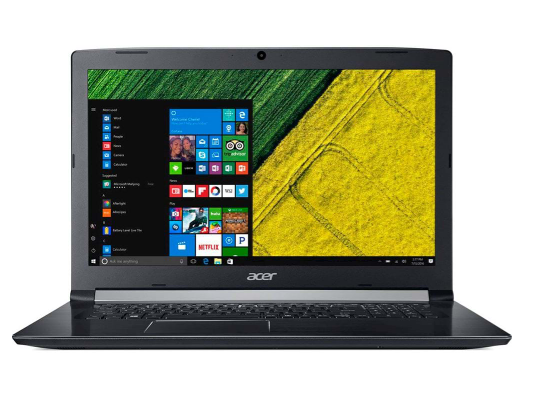
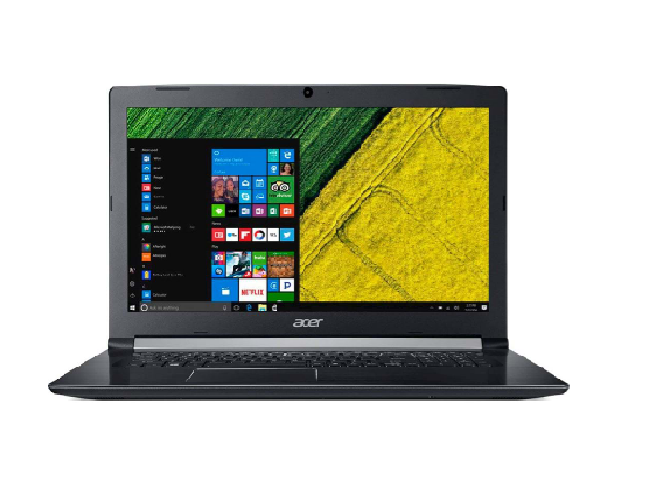
laptop 2

diff --git a/Laptop2.html b/Laptop2.html
@@ -35,14 +35,17 @@
 		<div>
 			<div class="laptopflex">
 				<div>
-					<a class="LaptopimgHP" href="Laptop.html"><img src="img/laptops.jpg" alt="laptop"></a>
-				</div>
-				<div class="hplaptop">
-					<h2>HP laptop 15-DA0636ND</h2>
-					<input onclick="alert('Succesfull added to cart')" class="hpbutton" type="button" value="Add to cart">
+					<a class="LaptopimgHP" href="Laptop2.html"><img src="img/laptops2.jpg" alt="laptop"></a>
 				</div>
 				<div>
-					<p class="price">549,-</p>
+					<div class="hplaptop2">
+						<a href="Laptop2.html">HP laptop 15-DA0636ND</a>
+						<input onclick="alert('Succesfull added to cart')" class="hpbutton" type="button" value="Add to cart">
+					</div>
+					<div class="pricebox">
+						<p class="strikethrough">649,-</p>
+						<p class="price">599,-</p>
+					</div>
 				</div>
 			</div>
 			<div class="productinfo">

diff --git a/Sale.html b/Sale.html
@@ -50,13 +50,15 @@
 			</div>
 			<div class="Laptop2">
 				<a class="LaptopimgHP2" href="Laptop2.html"><img class="laptop2img" src="img/laptops2.jpg" alt="laptop"></a>
-				<div class="hplaptop2">
-					<a href="Laptop2.html">HP laptop 15-DA0636ND</a>
-					<input onclick="alert('Succesfull added to cart')" class="hpbutton" type="button" value="Add to cart">
-				</div>
-				<div class="pricebox">
-					<p class="strikethrough">649,-</p>
-					<p class="price">599,-</p>
+				<div>
+					<div class="hplaptop2">
+						<a href="Laptop2.html">HP laptop 15-DA0636ND</a>
+						<input onclick="alert('Succesfull added to cart')" class="hpbutton" type="button" value="Add to cart">
+					</div>
+					<div class="pricebox">
+						<p class="strikethrough">649,-</p>
+						<p class="price">599,-</p>
+					</div>
 				</div>
 			</div>
 		</div>
